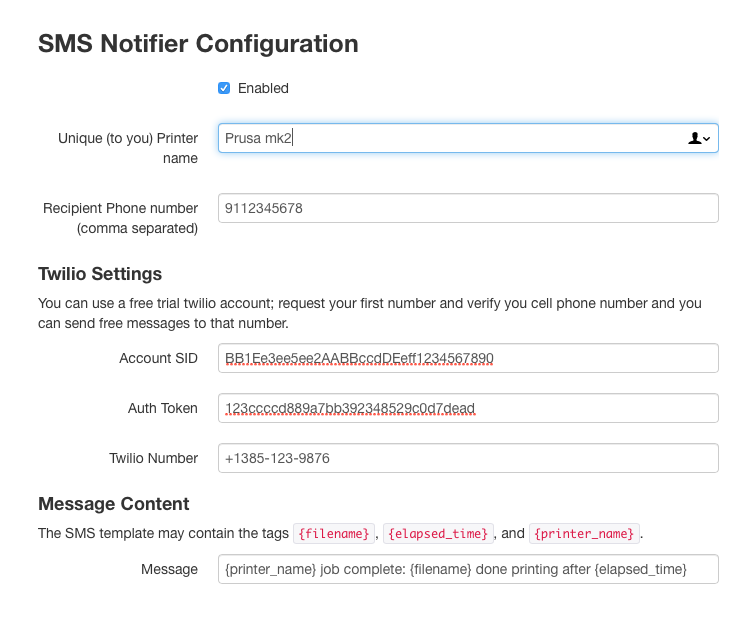
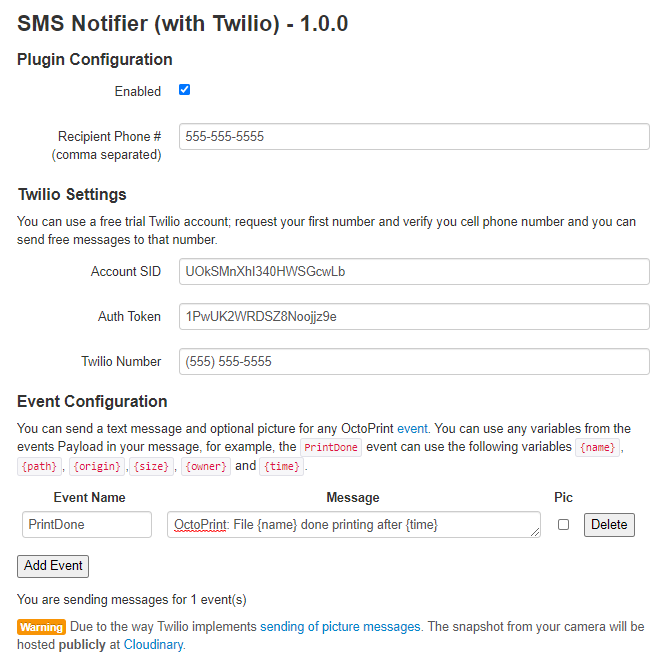
update documentation

diff --git a/README.md b/README.md
@@ -1,7 +1,7 @@
 # OctoPrint-Twilio
 
-Receive SMS notifications when OctoPrint jobs are complete.
-
+Receive SMS notifications for OctoPrint events.  
+  
 ![Settings tab and email screenshot](extras/smsnotifier.png)
 
 ## Installation
@@ -12,13 +12,15 @@ Install via the OctoPrint [Plugin Manager](https://github.com/foosel/OctoPrint/w
 
 ## Configuration
 
-You will need an active Twilio account.  A free account is fine, but you will only be able to send to your own (verified) phone number. Make sure you go to `Phone Numbers` -> `Manage Numbers` and get your Twilio phone number; this should be your "from" number.
+You will need a free [Twilio](https://www.twilio.com/try-twilio) developers account.  A free account is only able to send to your own (verified) phone number. Make sure you go to `Phone Numbers` -> `Manage Numbers` and get your Twilio phone number; this should be your "from" number.
 
 ## Acknowledgements
 
 Loosely based on [OctoPrint-EmailNotifier](https://github.com/anoved/OctoPrint-EmailNotifier). 
 
 Uses [twilio-python](https://github.com/twilio/twilio-python) to send sms messages and [phonenumbers](https://github.com/daviddrysdale/python-phonenumbers) to clean them up.
+
+[Cloudinary](https://cloudinary.com/) for hosting the `46,532` pictures sent via OctoPrint-Twilio.
 
 ## License
 

diff --git a/extras/smsnotifier.md b/extras/smsnotifier.md
@@ -3,7 +3,7 @@ layout: plugin
 
 id: smsnotifier
 title: SMS Notifier (with Twilio)
-description: Receive SMS notifications when OctoPrint jobs are complete.
+description: Receive SMS notifications for OctoPrint events.
 author: Richard Bateman
 license: AGPLv3
 
@@ -20,11 +20,12 @@ follow_dependency_links: false
 
 tags:
 - notification
+- notifications
 
 screenshots:
 - url: /assets/img/plugins/smsnotifier/smsnotifier.png
   alt: Settings dialog and SMS notification screenshot
-  caption: Configure notification recipient, Twilio API SID and Auth Token, printer name, and from number.
+  caption: Configure notification recipient, Twilio API SID and Auth Token and events.
 
 featuredimage: /assets/img/plugins/smsnotifier/smsnotifier.png
 
@@ -35,4 +36,4 @@ compatibility:
 
 ---
 
-Receive email notifications when OctoPrint jobs are complete.
+Using a free [Twilio](https://www.twilio.com/try-twilio) developers account you can send an SMS and optional picture for any Octoprint [Event](https://docs.octoprint.org/en/master/events/index.html). The most common use case is for sending a picture of the finished print using the `PrintDone` event.
